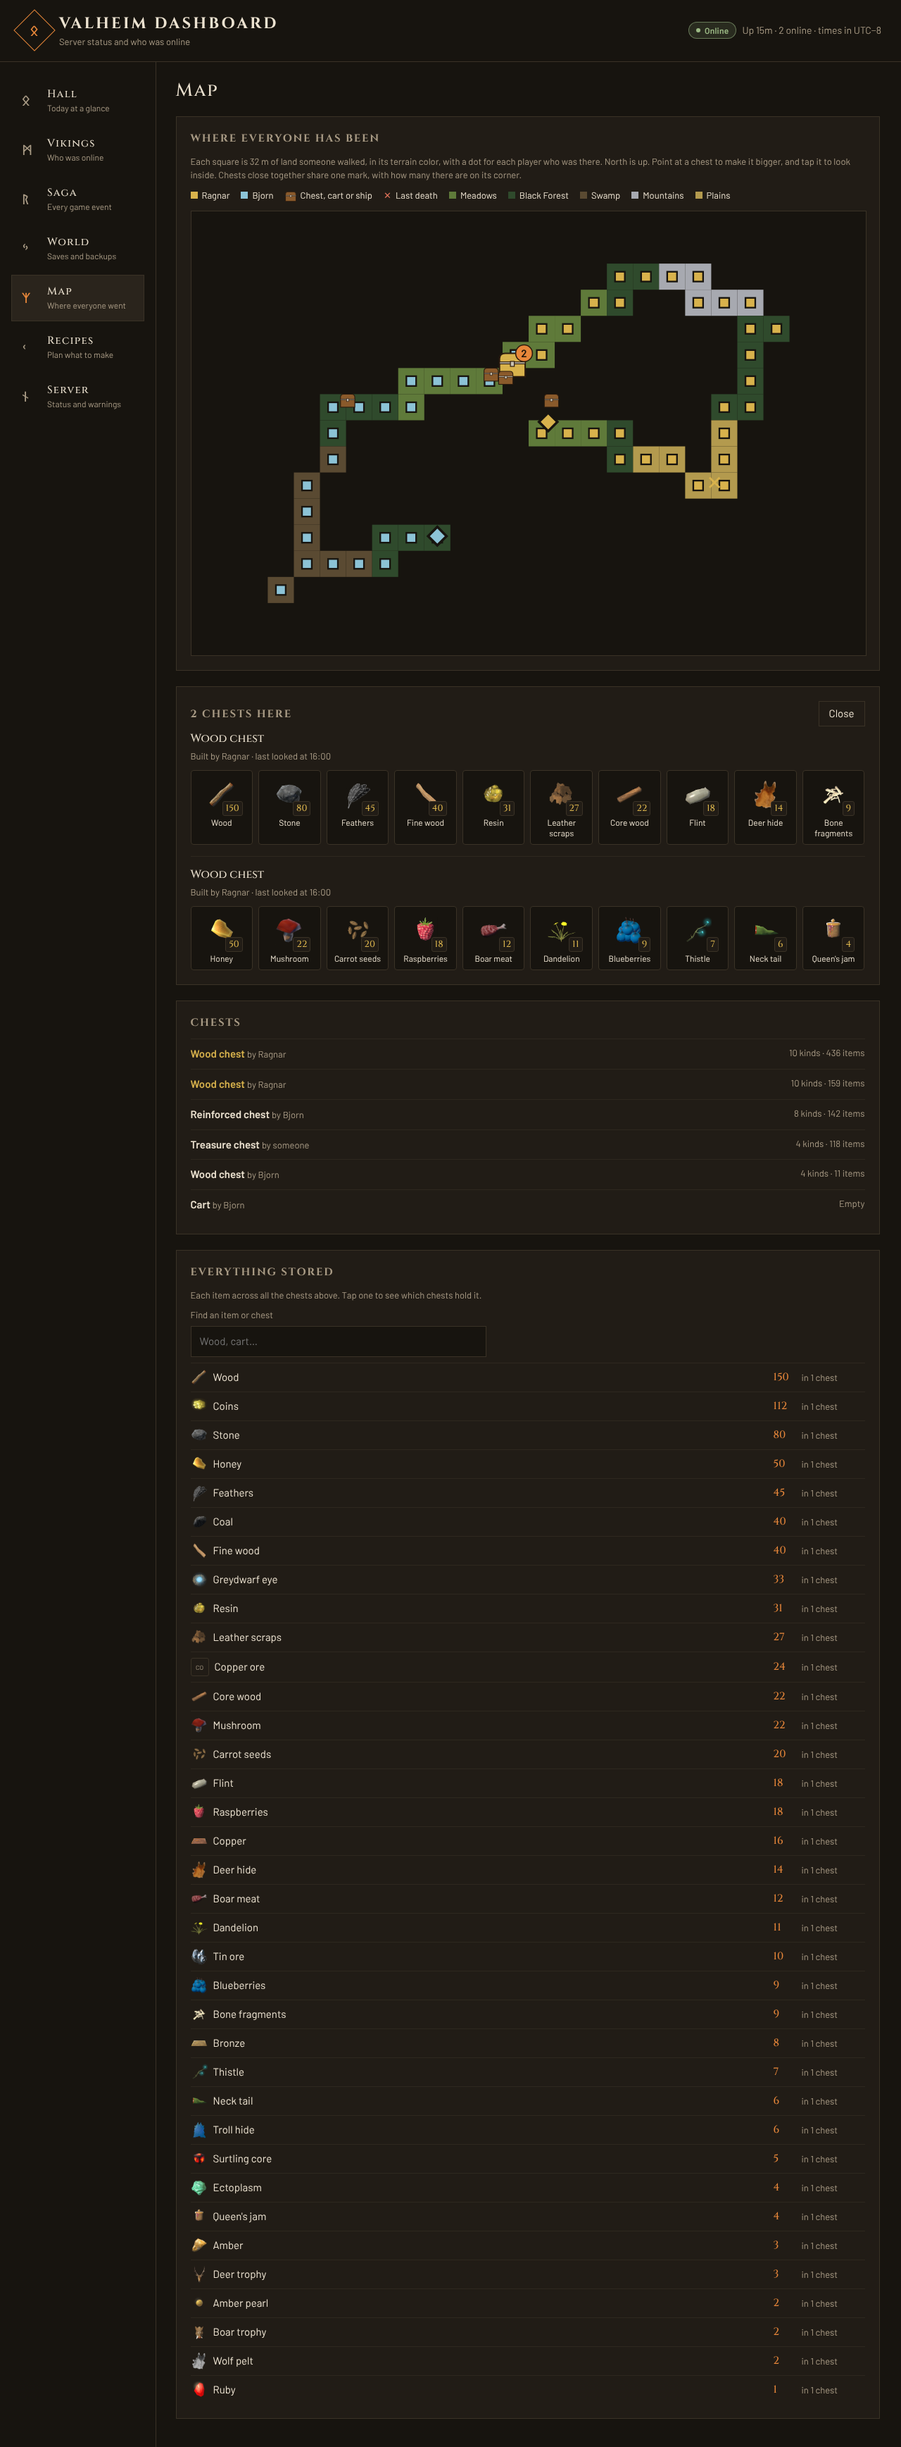
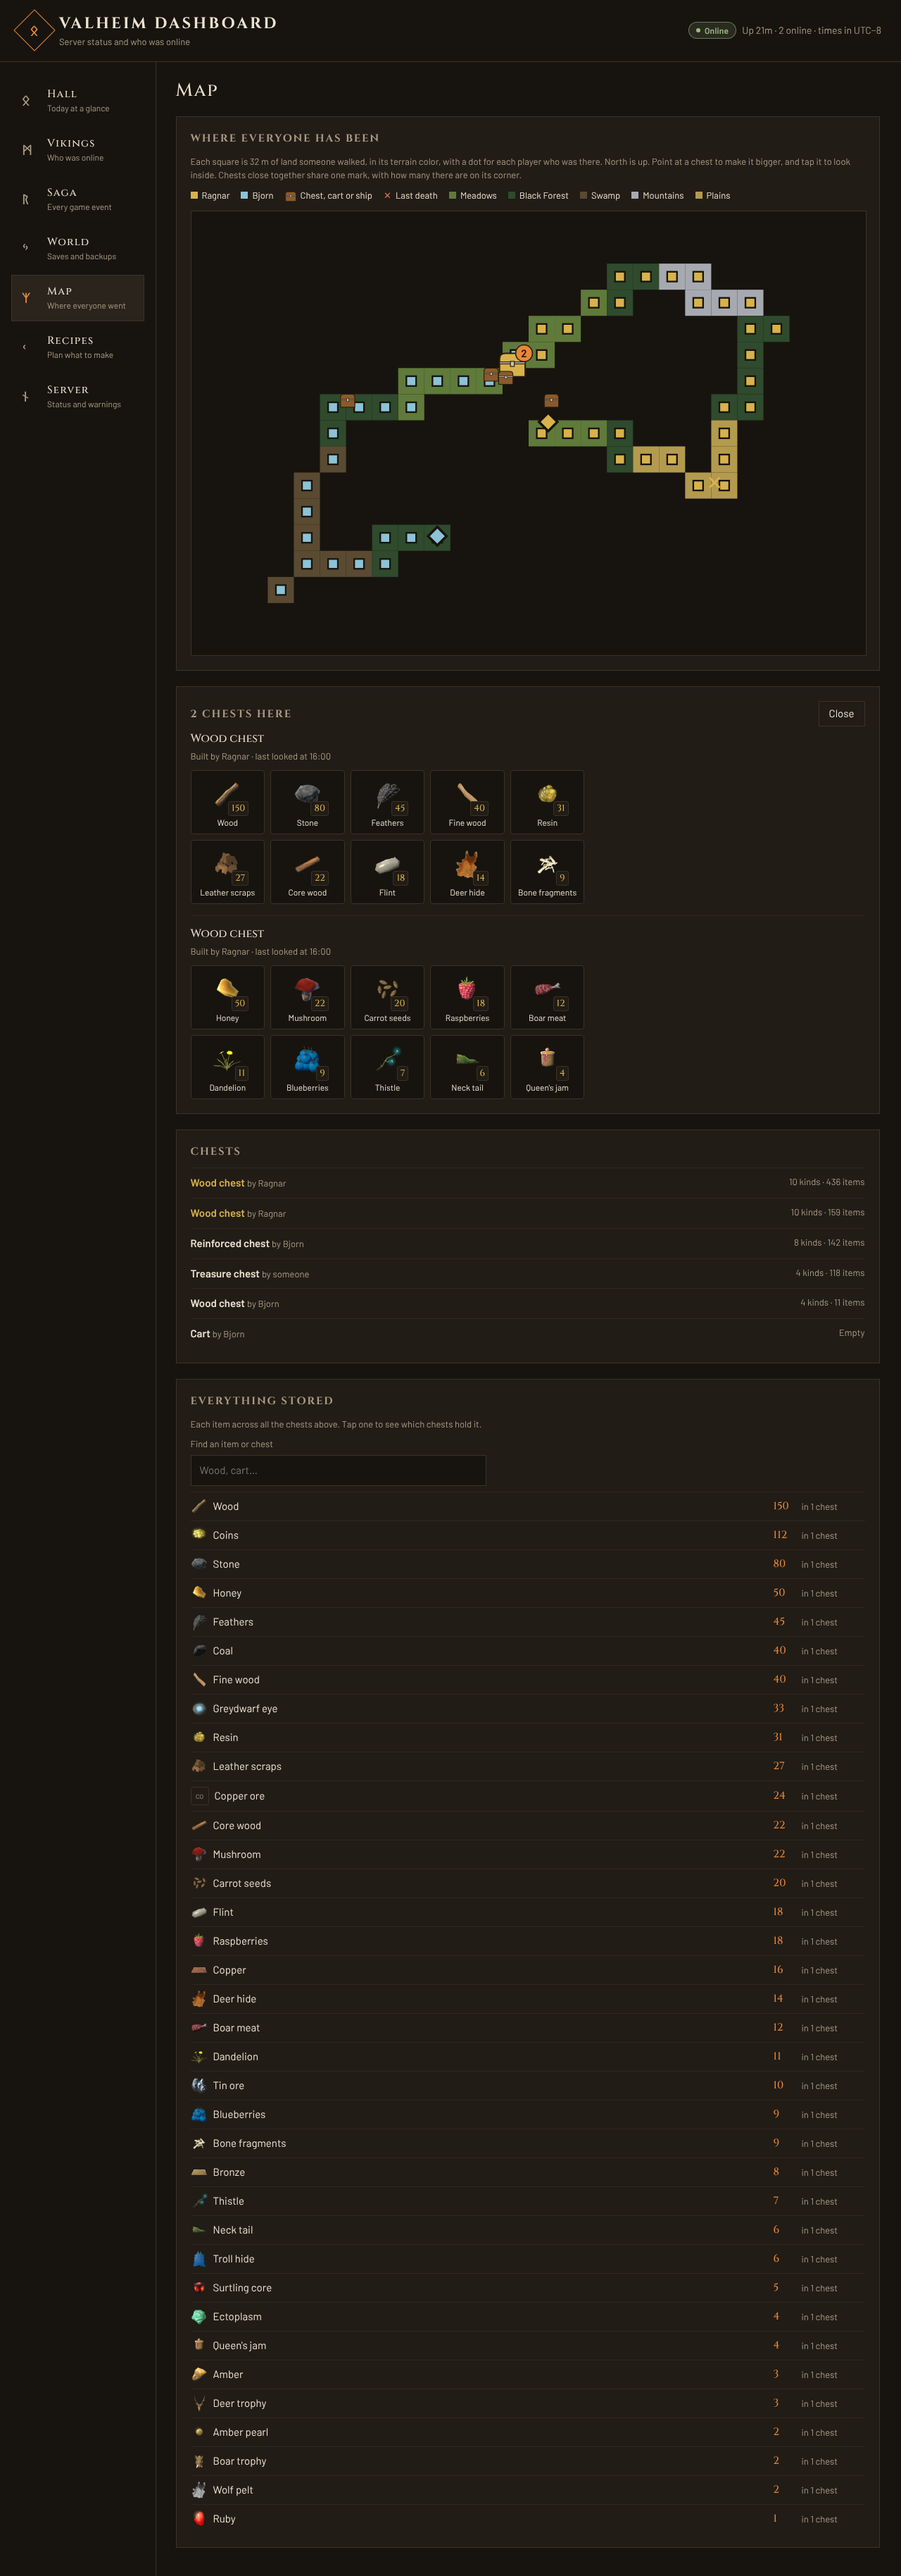
Lay chest slots out in the game's grid for each chest, and take the Finewood bow and Bjørn names from #63

diff --git a/apps/dashboard/src/lib/components/ChestContents.svelte b/apps/dashboard/src/lib/components/ChestContents.svelte
@@ -1,19 +1,25 @@
 <script lang="ts">
   import ItemIcon from '#/lib/components/ItemIcon';
-  import { itemSlots } from '#/lib/items';
+  import { containerGrid, itemSlots } from '#/lib/items';
   import { CHEST_SLOT_ICON_PX } from '#/lib/models';
 
-  /** How many of each item the chest holds, by the prefab the plugin logs. */
-  let { items }: { items: Record<string, number> } = $props();
+  /** Prefab of the chest, cart or ship, which picks its slot grid, and how many of each item it holds. */
+  let { chest, items }: { chest: string; items: Record<string, number> } = $props();
 
   /** One slot per item, most first. */
   const slots = $derived(itemSlots(items));
+
+  /** The game's slot grid for this chest, grown when the items need more slots. */
+  const grid = $derived(containerGrid(chest, slots.length));
+
+  /** Empty slots that fill the rest of the grid, as the game shows them. */
+  const emptySlots = $derived(Array.from({ length: grid.slots - slots.length }, (_, index) => index));
 </script>
 
 {#if slots.length === 0}
   <p class="muted">Empty</p>
 {:else}
-  <ul class="slots">
+  <ul class="slots" style:--columns={grid.columns}>
     {#each slots as slot (slot.prefab)}
       <li class="slot" title="{slot.count.toLocaleString()} {slot.name}">
         <span class="picture">
@@ -23,18 +29,41 @@
         <span class="name">{slot.name}</span>
       </li>
     {/each}
+    {#each emptySlots as index (index)}
+      <li class="slot empty" aria-hidden="true"></li>
+    {/each}
   </ul>
 {/if}
 
 <style>
-  /* Slots in rows like a chest in the game, as many per row as fit */
+  /* Slots in the game's grid for this chest, one item per slot */
   .slots {
     display: grid;
-    grid-template-columns: repeat(auto-fill, minmax(84px, 1fr));
+    grid-template-columns: repeat(var(--columns), minmax(0, 1fr));
     gap: 8px;
+    max-width: calc(var(--columns) * 112px);
     margin: 0;
     padding: 0;
     list-style: none;
+  }
+
+  /* On a phone the game's grid does not fit, so slots flow as many per row as fit and empty ones hide */
+  @media (max-width: 720px) {
+    .slots {
+      grid-template-columns: repeat(auto-fill, minmax(84px, 1fr));
+      max-width: none;
+    }
+
+    .slot.empty {
+      display: none;
+    }
+  }
+
+  /* An empty slot is dashed and quiet, so filled slots stand out */
+  .slot.empty {
+    min-height: 100px;
+    border-style: dashed;
+    border-color: var(--line-soft);
   }
 
   /* One slot: the item's picture on top and its name under it */

diff --git a/apps/dashboard/src/lib/models.ts b/apps/dashboard/src/lib/models.ts
@@ -346,7 +346,25 @@ export const CHEST_NAMES: Record<string, string> = {
   Raft: 'Raft',
   Karve: 'Karve',
   VikingShip: 'Longship',
+  shipwreck_karve_chest: 'Shipwreck chest',
 };
+
+/** Slots in one row and rows of slots of a container, as its window shows them in the game. */
+export type ContainerSize = { columns: number; rows: number };
+
+/** Slot grid of each container the game builds, by prefab. */
+export const CONTAINER_SIZES: Record<string, ContainerSize> = {
+  piece_chest_wood: { columns: 5, rows: 2 },
+  piece_chest: { columns: 6, rows: 4 },
+  piece_chest_private: { columns: 3, rows: 2 },
+  piece_chest_blackmetal: { columns: 8, rows: 4 },
+  Cart: { columns: 6, rows: 3 },
+  Karve: { columns: 2, rows: 2 },
+  VikingShip: { columns: 6, rows: 3 },
+};
+
+/** Slot grid of a container missing above. Rows are added whenever the items need more slots. */
+export const DEFAULT_CONTAINER_SIZE: ContainerSize = { columns: 5, rows: 2 };
 
 /** Start of the prefab of every chest the world came with, for example `TreasureChest_meadows`. */
 export const TREASURE_CHEST_PREFIX = 'TreasureChest';
@@ -573,7 +591,7 @@ export const GEAR_NAMES: Record<string, string> = {
   AtgeirBronze: 'Bronze atgeir',
   SledgeIron: 'Iron sledge',
   Bow: 'Crude bow',
-  BowFineWood: 'Fine bow',
+  BowFineWood: 'Finewood bow',
   BowHuntsman: 'Huntsman bow',
   BowDraugrFang: 'Draugr fang',
   ShieldWood: 'Wood shield',
@@ -669,6 +687,10 @@ export const ITEM_NAMES: Record<string, string> = {
   TrophySurtling: 'Surtling trophy',
   TrophyWolf: 'Wolf trophy',
   TrophyHatchling: 'Drake trophy',
+  TrophyBjorn: 'Bjørn trophy',
+  BjornHide: 'Bjørn hide',
+  BjornPaw: 'Bjørn paw',
+  KnifeButcher: 'Butcher knife',
 };
 
 /** Where a piece of gear goes on the character sheet: a slot, or `carried` for tools and spare gear. */

diff --git a/apps/dashboard/src/lib/items.ts b/apps/dashboard/src/lib/items.ts
@@ -1,4 +1,13 @@
-import { CHEST_NAMES, GEAR_NAMES, ITEM_NAMES, type MapChest, type StockRow, TREASURE_CHEST_PREFIX } from '#/lib/models';
+import {
+  CHEST_NAMES,
+  CONTAINER_SIZES,
+  DEFAULT_CONTAINER_SIZE,
+  GEAR_NAMES,
+  ITEM_NAMES,
+  type MapChest,
+  type StockRow,
+  TREASURE_CHEST_PREFIX,
+} from '#/lib/models';
 import { capitalized, thingName } from '#/lib/story';
 
 /**
@@ -10,6 +19,15 @@ export const itemName = (prefab: string): string => GEAR_NAMES[prefab] ?? ITEM_N
 /** Returns the name the game shows for the chest, cart or ship the plugin logs as [prefab], such as `Wood chest`. */
 export const chestName = (prefab: string): string =>
   CHEST_NAMES[prefab] ?? (prefab.startsWith(TREASURE_CHEST_PREFIX) ? 'Treasure chest' : itemName(prefab));
+
+/**
+ * Returns the slot grid of the container [prefab] holding [kinds] kinds of items: its columns as in the game, and
+ * how many slots in all, with rows added when the items need more slots than the game's grid has.
+ */
+export const containerGrid = (prefab: string, kinds: number): { columns: number; slots: number } => {
+  const { columns, rows } = CONTAINER_SIZES[prefab] ?? DEFAULT_CONTAINER_SIZE;
+  return { columns, slots: Math.max(rows, Math.ceil(kinds / columns)) * columns };
+};
 
 /** Returns [items] as one entry per item, most first, with the name the game shows. */
 export const itemSlots = (items: Record<string, number>): { prefab: string; name: string; count: number }[] =>

diff --git a/apps/dashboard/src/lib/items.test.ts b/apps/dashboard/src/lib/items.test.ts
@@ -1,6 +1,6 @@
 import { describe, expect, it } from 'vitest';
 
-import { chestName, itemName, itemSlots, stockOf } from '#/lib/items';
+import { chestName, containerGrid, itemName, itemSlots, stockOf } from '#/lib/items';
 import { mapOf } from '#/lib/map';
 import { playersOf } from '#/lib/players';
 import { snapshotWith, TEST_NOON_MS } from '#/lib/test-common';
@@ -28,6 +28,21 @@ describe('chestName', () => {
 
     // THEN each has the name the game shows, and the unknown one its prefab in plain words
     expect(names).toEqual(['Wood chest', 'Longship', 'Treasure chest', 'Chest odd']);
+  });
+});
+
+describe('containerGrid', () => {
+  it("uses the game's grid, adds rows when the items need them, and has a grid for unknown containers", () => {
+    // GIVEN a wood chest with 3 kinds, a cart with 20 kinds and an unknown container with 1 kind
+    // WHEN their grids are made
+    const grids = [containerGrid('piece_chest_wood', 3), containerGrid('Cart', 20), containerGrid('piece_odd', 1)];
+
+    // THEN the wood chest is 5 by 2, the cart grows a fourth row of 6, and the unknown one is 5 by 2
+    expect(grids).toEqual([
+      { columns: 5, slots: 10 },
+      { columns: 6, slots: 24 },
+      { columns: 5, slots: 10 },
+    ]);
   });
 });
 

diff --git a/apps/dashboard/src/lib/gear.test.ts b/apps/dashboard/src/lib/gear.test.ts
@@ -31,7 +31,7 @@ describe('gearSheet', () => {
       head: 'Leather helmet',
       cape: 'Deer hide cape',
     });
-    expect(sheet.carried.map((piece) => piece.name)).toEqual(['Fine bow', 'Flint spear', 'Torch']);
+    expect(sheet.carried.map((piece) => piece.name)).toEqual(['Finewood bow', 'Flint spear', 'Torch']);
   });
 
   it('shows an upgraded piece once, at its newest level', () => {
@@ -58,7 +58,7 @@ describe('iconItems', () => {
     const items = iconItems();
 
     // THEN gear and recipe items are both there, with no repeats
-    expect(items).toContain('Fine bow');
+    expect(items).toContain('Finewood bow');
     expect(items).toContain('Deer hide');
     expect(items.filter((item) => item === 'Hammer')).toEqual(['Hammer']);
   });

diff --git a/apps/dashboard/src/routes/map/+page.svelte b/apps/dashboard/src/routes/map/+page.svelte
@@ -158,7 +158,7 @@
             <p class="muted">
               Built by {chest.record.builder ?? 'someone'} · last looked at {whenLabel(chest.record.timeUtc, timeZone, nowMs)}
             </p>
-            <ChestContents items={chest.record.items} />
+            <ChestContents chest={chest.record.chest} items={chest.record.items} />
           </div>
         {/each}
       </section>
